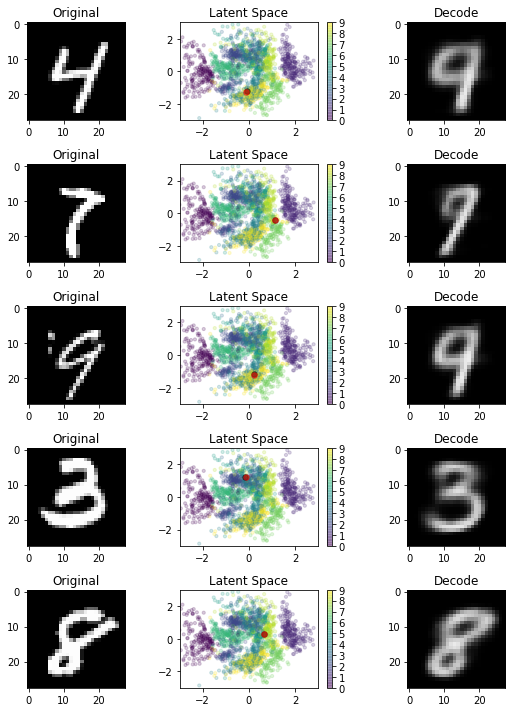
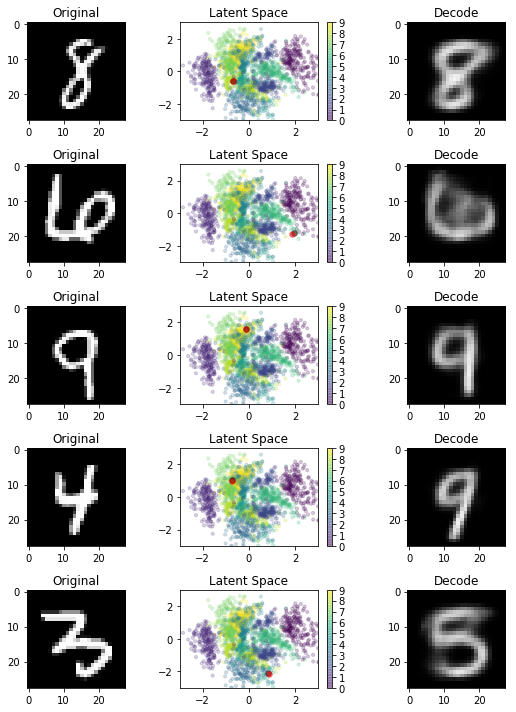
VAE pic adjust

diff --git a/VAE.py b/VAE.py
@@ -1,5 +1,6 @@
 '''
 Reference: 
+https://arxiv.org/pdf/1312.6114.pdf
 https://www.youtube.com/watch?v=8zomhgKrsmQ&t=112s
 http://blog.csdn.net/jackytintin/article/details/53641885
 https://jmetzen.github.io/2015-11-27/vae.html

diff --git a/README.md b/README.md
@@ -72,22 +72,17 @@ used_time
 - activation function : softplus, sigmoid
 - optimizier : Adam + min-batch
 ```
-Epoch: 1 cost= 197.138191134
-Epoch: 11 cost= 153.145961379
-Epoch: 21 cost= 147.470246073
-Epoch: 31 cost= 144.192750588
-Epoch: 41 cost= 142.880368568
-Epoch: 51 cost= 141.337800495
-Epoch: 61 cost= 140.225197319
-Epoch: 71 cost= 139.715160308
-Epoch: 81 cost= 139.138251511
-Epoch: 91 cost= 138.459720549
-Epoch: 101 cost= 137.795099627
+Epoch: 1 cost= 196.581512416
+Epoch: 21 cost= 146.854643957
+Epoch: 41 cost= 142.512102212
+Epoch: 61 cost= 140.136859013
+Epoch: 81 cost= 138.670617768
+Epoch: 101 cost= 137.499377324
 ```
 - original image VS decoder<br>
-![Imgur](http://i.imgur.com/tZLb76r.png)
+![Imgur](http://i.imgur.com/qIyxc9L.png)
 - generate images<br>
-![Imgur](http://i.imgur.com/pctUmsS.png)
+![Imgur](http://i.imgur.com/wkCjX2z.png)
 
 
 ---
